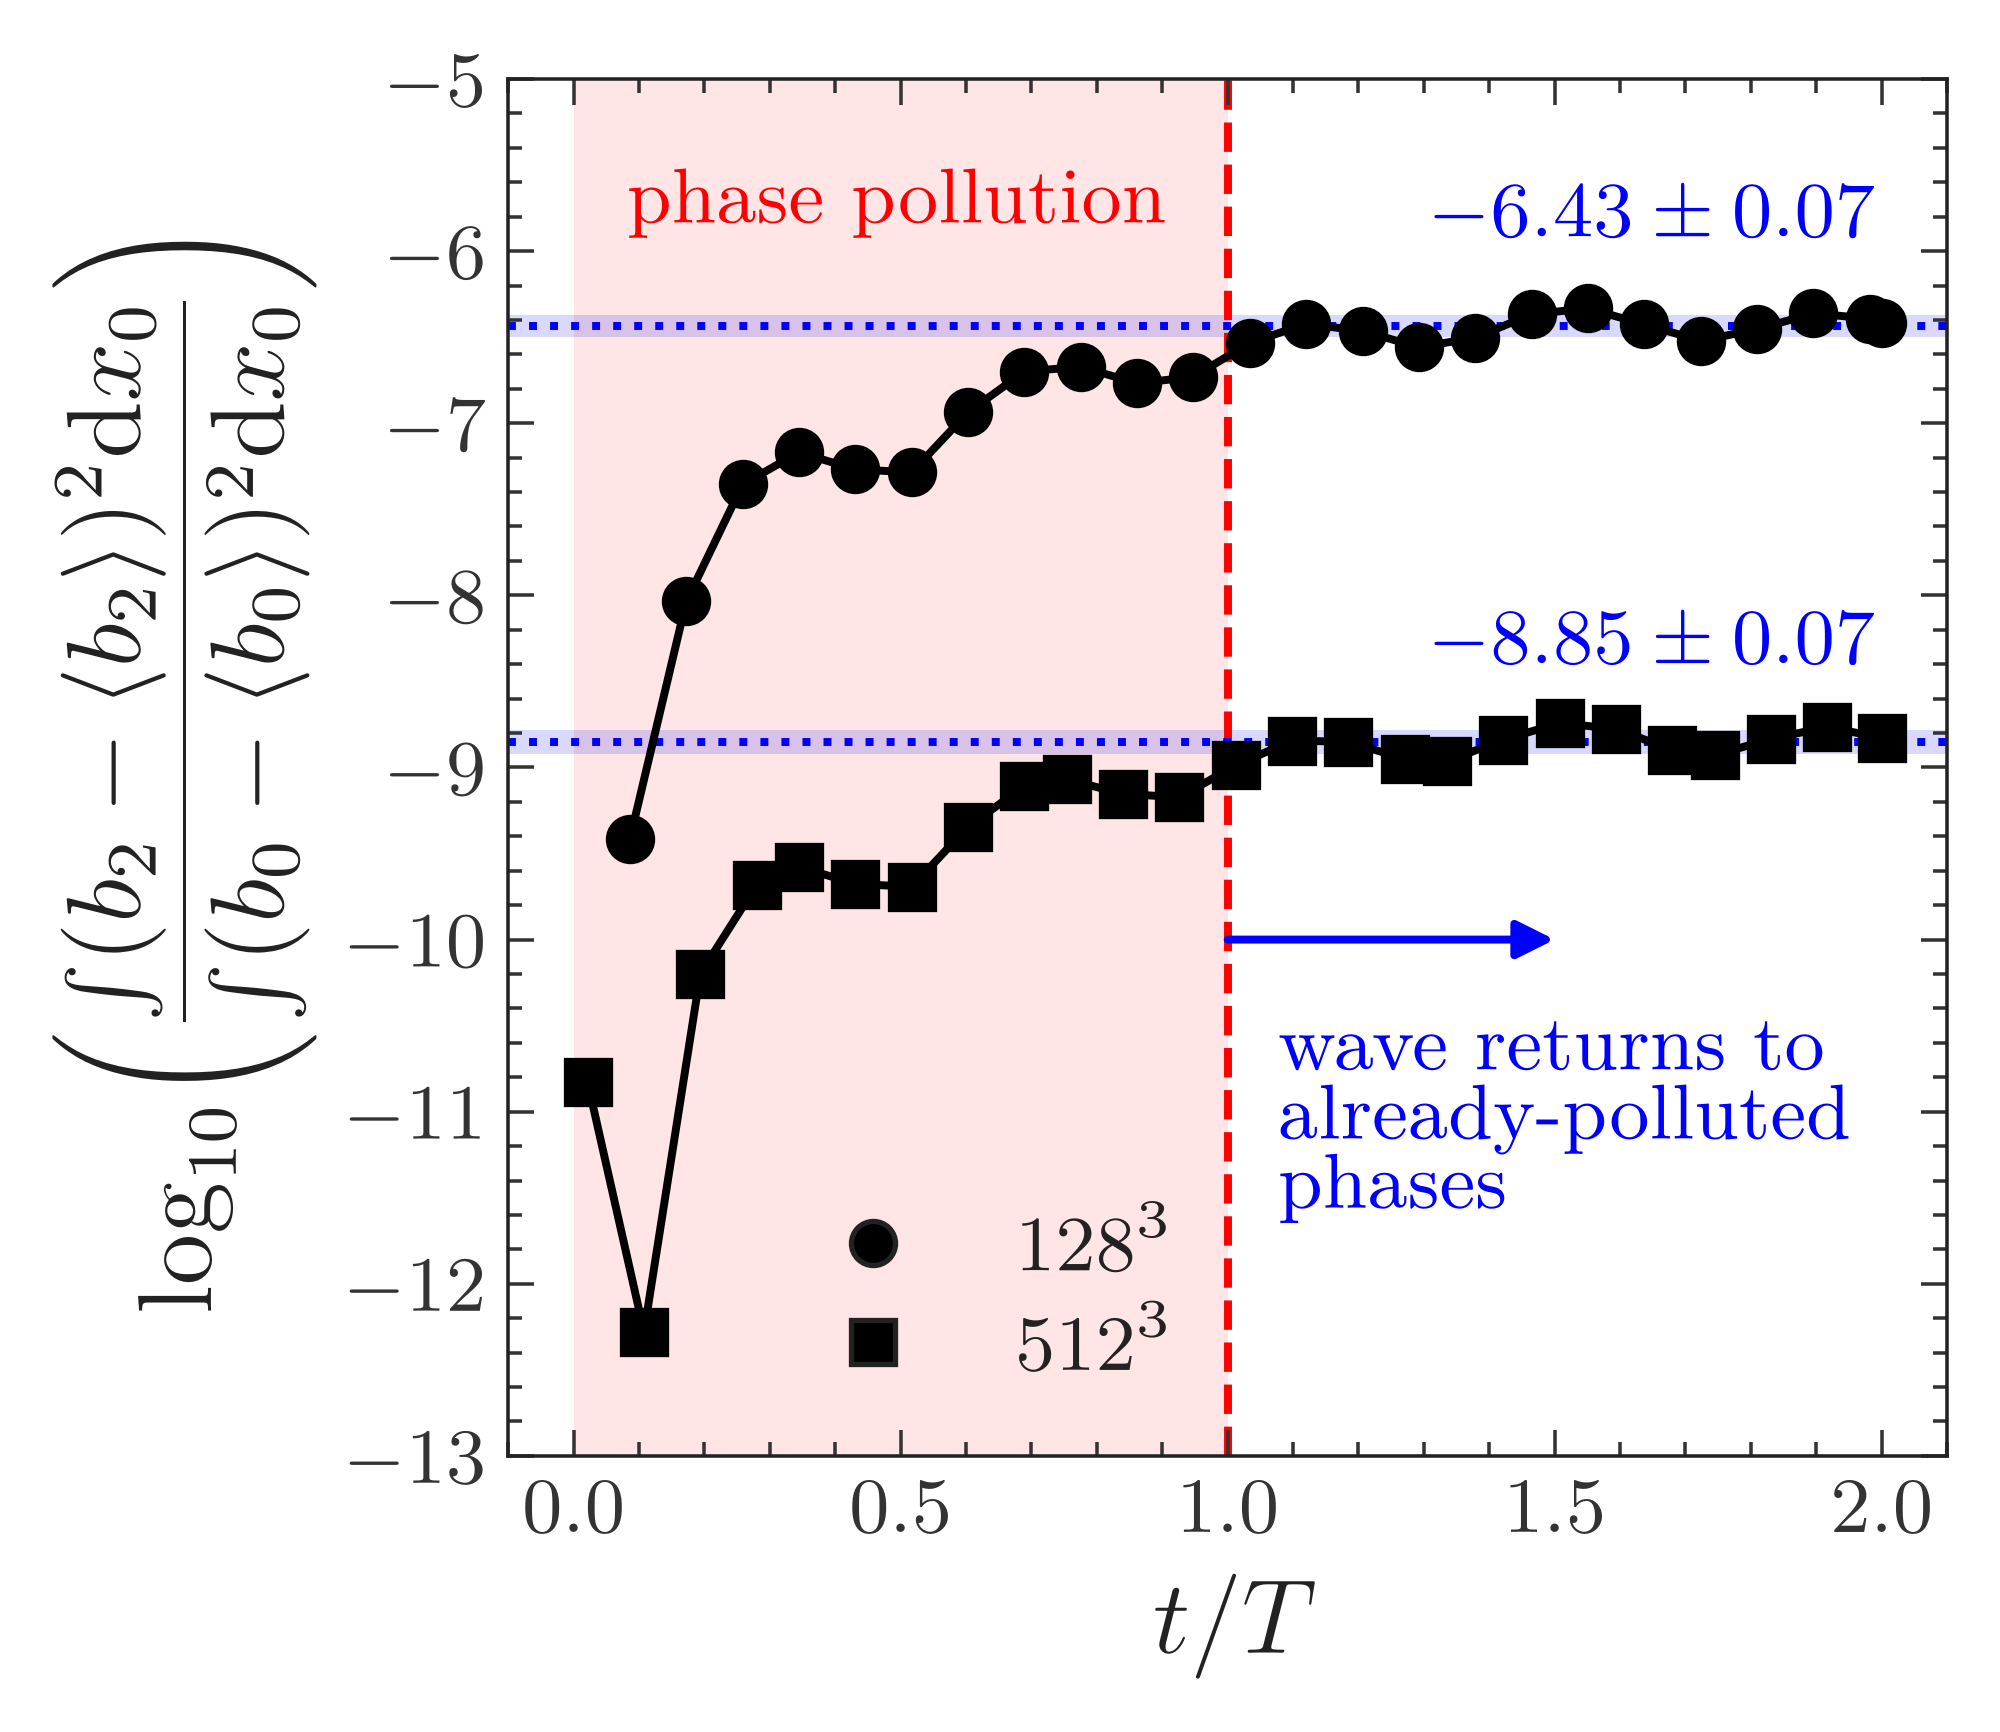
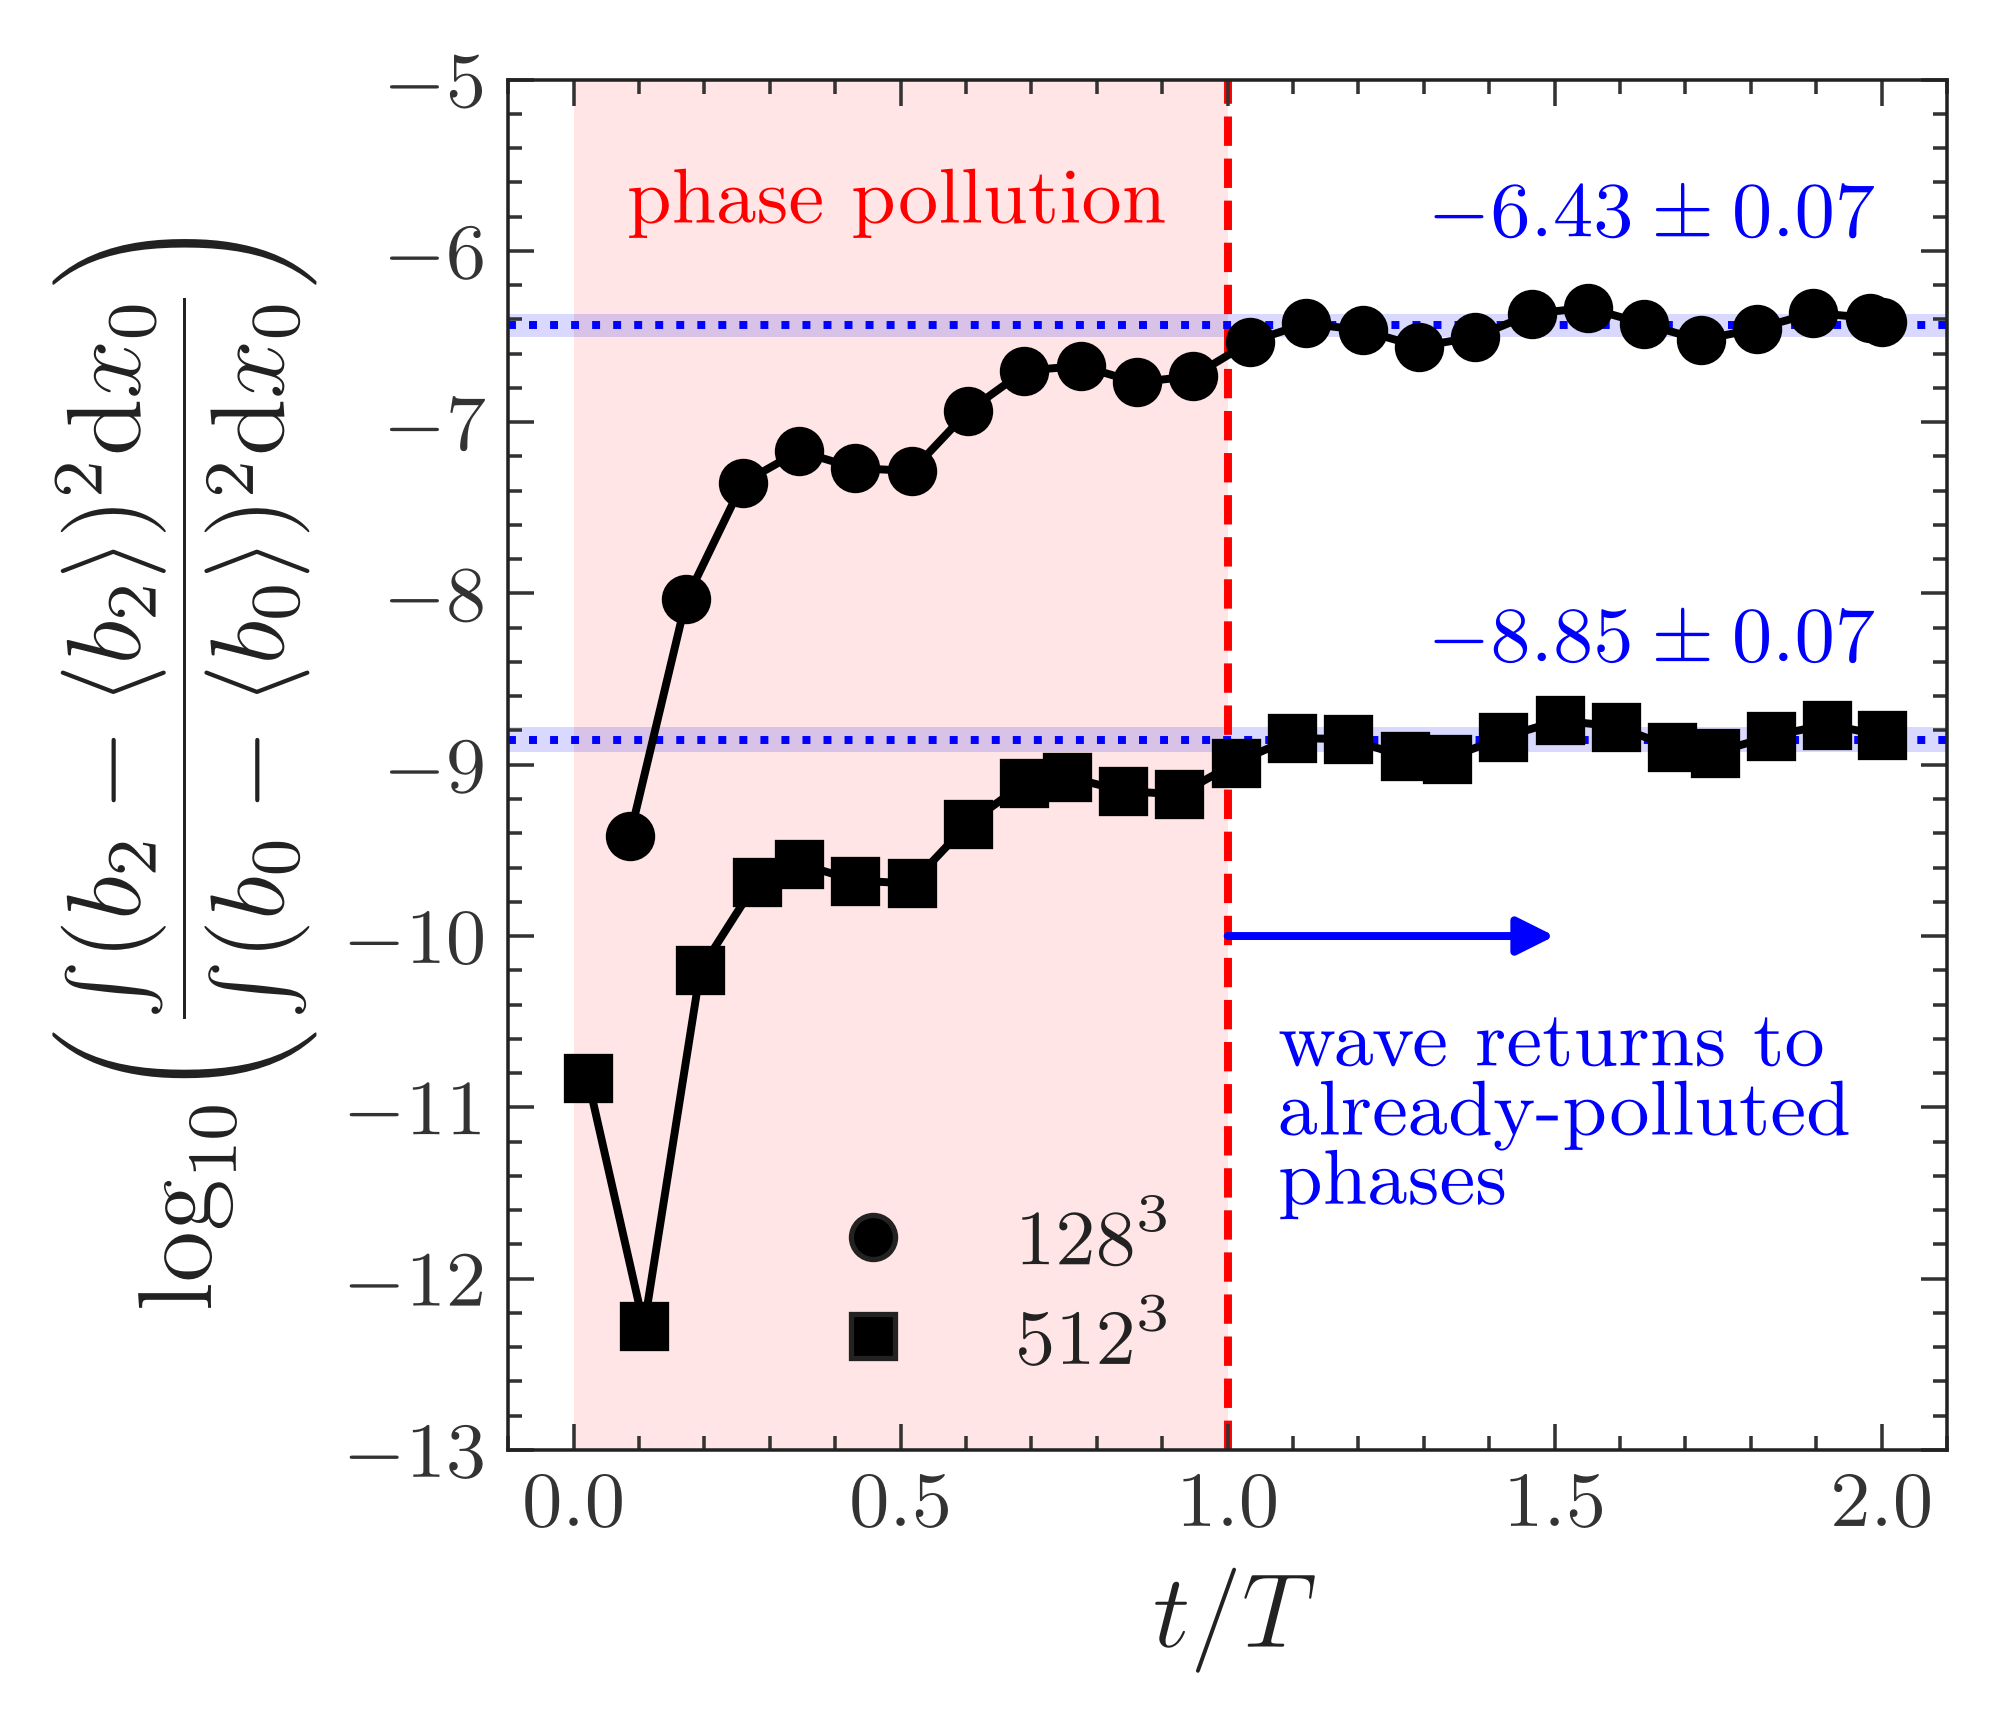
rename-param(polarisation-leakage): ncells to num_cells; single-panel; paper_style; fraction ratio.

diff --git a/scripts/problems/slow-wave/plot_polarisation_leakage.py b/scripts/problems/slow-wave/plot_polarisation_leakage.py
@@ -11,9 +11,12 @@ from pathlib import Path
 import numpy
 
 ## personal
-from jormi.ww_io import json_io, manage_io, manage_log
-from jormi.ww_plots import manage_figure, style_figure, annotate_panel
+from jormi.ww_io import json_io, manage_io
+from jormi.ww_plots import annotate_panel, manage_figure, style_figure
 from jormi.ww_types import box_positions
+
+## local
+from local_helpers import paper_style
 
 ##
 ## === CONFIGURATION
@@ -22,8 +25,8 @@ from jormi.ww_types import box_positions
 ## compares the oblique slow-wave leakage test (k = (1, 2, 3), 45 degrees between k and the
 ## background field) at low and high resolution, to check whether the b_2 leakage seeded by
 ## non-grid-aligned reconstruction shrinks with resolution, as expected for a convergent scheme.
-NCELLS_LOW = 128
-NCELLS_HIGH = 512
+NUM_CELLS_LOW = 128
+NUM_CELLS_HIGH = 512
 SCHEME = "q26-b25-ppm_ep"
 PROFILE_AXIS = "x_0"
 PRIMARY_COMPONENT = "x_0"
@@ -41,7 +44,7 @@ FIGURE_PATH = ROOT_DIR / "figures/problems/slow-wave/polarisation-leakage.png"
 
 def load_energy_time_series(
     *,
-    ncells: int,
+    num_cells: int,
     component: str,
 ) -> tuple[numpy.ndarray, numpy.ndarray]:
     """
@@ -53,7 +56,7 @@ def load_energy_time_series(
     edge, and using trapz here introduced a spurious ~1-2% time-dependent oscillation, since the
     profile's phase shifts snapshot to snapshot -- the plain sum is stable to ~0.2% instead.
     """
-    extracted_dir = DATASET_DIR / f"ncells={ncells}" / SCHEME / "extracted"
+    extracted_dir = DATASET_DIR / f"num_cells={num_cells}" / SCHEME / "extracted"
     file_paths = sorted(
         extracted_dir.glob(f"magnetic-axis={PROFILE_AXIS}-index=*.json"),
         key=lambda path: int(path.stem.split("index=")[-1].split("-")[0]),
@@ -73,15 +76,15 @@ def load_energy_time_series(
 
 def compute_leakage_ratio(
     *,
-    ncells: int,
+    num_cells: int,
 ) -> tuple[numpy.ndarray, numpy.ndarray]:
     """Return (normalized time, log10 leakage ratio) for one resolution, excluding t=0."""
     times, primary_energy = load_energy_time_series(
-        ncells=ncells,
+        num_cells=num_cells,
         component=PRIMARY_COMPONENT,
     )
     _, spurious_energy = load_energy_time_series(
-        ncells=ncells,
+        num_cells=num_cells,
         component=SPURIOUS_COMPONENT,
     )
     ## the run spans exactly two wave periods (t = 4*pi/omega), so the last recorded time is
@@ -212,21 +215,13 @@ def add_tail_annotation(
 
 
 def main() -> None:
-    manage_log.set_block_width_mode(mode=manage_log.BlockWidthMode.PRACTICAL)
-    default_text_sizes = style_figure.TextSizeParams()
-    style_figure.set_figure_params(
-        figure_params=style_figure.FigureParams(
-            text_size_params=style_figure.TextSizeParams(
-                legend_level=default_text_sizes.annotation_level,
-            ),
-        ),
-    )
+    paper_style.setup_plotting_script()
     manage_io.create_directory(
         directory=FIGURE_PATH.parent,
         verbose=False,
     )
-    times_low, ratio_low = compute_leakage_ratio(ncells=NCELLS_LOW)
-    times_high, ratio_high = compute_leakage_ratio(ncells=NCELLS_HIGH)
+    times_low, ratio_low = compute_leakage_ratio(num_cells=NUM_CELLS_LOW)
+    times_high, ratio_high = compute_leakage_ratio(num_cells=NUM_CELLS_HIGH)
     ## compute saturation stats from the full (non-subsampled) series for a robust estimate
     tail_low = ratio_low[len(ratio_low) // 2:]
     tail_high = ratio_high[len(ratio_high) // 2:]
@@ -242,16 +237,14 @@ def main() -> None:
         log10_leakage_ratio=ratio_high,
         num_samples=NUM_TIME_SAMPLES,
     )
-    figure, panel_grid = manage_figure.create_figure_grid(
-        num_panel_rows=1,
-        num_panel_cols=1,
-        panel_aspect_ratio=1.045,
+    figure, panel = manage_figure.create_figure(
+        ## chosen by eye
+        panel_aspect_ratio=21.0 / 20.0,
         ## drawn at the width the paper prints it at, so its text is the size it asks for
         figure_layout=style_figure.FigureLayout(
             figure_width=style_figure.FigureWidth(width_fraction=0.5),
         ),
     )
-    panel = panel_grid[0, 0]
     panel.plot(
         times_low,
         ratio_low,
@@ -273,8 +266,8 @@ def main() -> None:
             "s",
         ],
         labels=[
-            f"${NCELLS_LOW}^3$",
-            f"${NCELLS_HIGH}^3$",
+            f"${NUM_CELLS_LOW}^3$",
+            f"${NUM_CELLS_HIGH}^3$",
         ],
         colors=["black", "black"],
         anchor_point_fraction=(0.15, 0.0),
